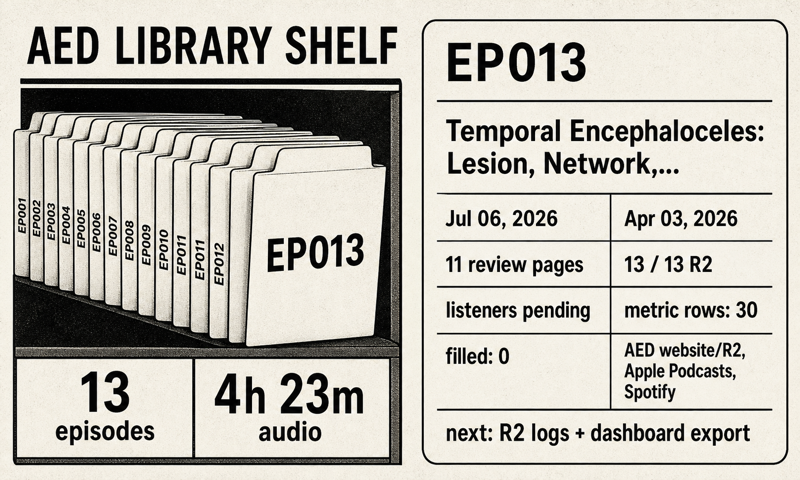
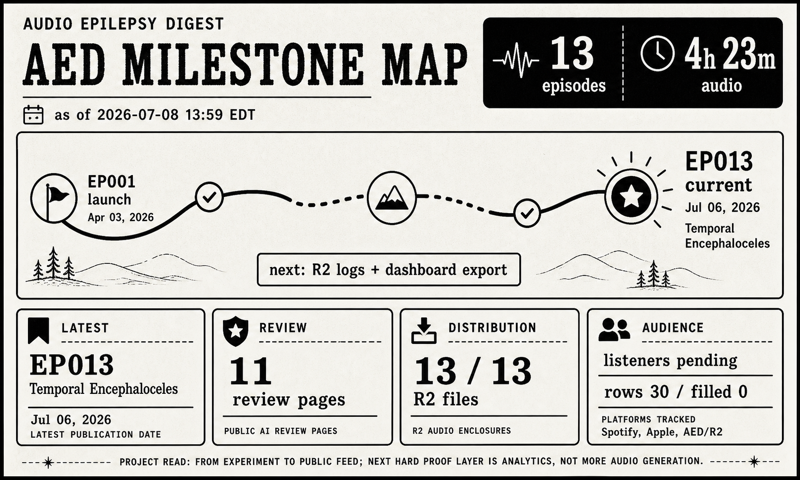
Refresh AED TRMNL dashboard

diff --git a/trmnl.html b/trmnl.html
@@ -32,6 +32,6 @@
   </style>
 </head>
 <body>
-  <img src="site-assets/aed-trmnl-dashboard-current.png?v=2026-07-08-1423-3cbd3212650d" alt="Audio Epilepsy Digest TRMNL dashboard">
+  <img src="site-assets/aed-trmnl-dashboard-current.png?v=2026-07-08-1533-9a9569a72454" alt="Audio Epilepsy Digest TRMNL dashboard">
 </body>
 </html>